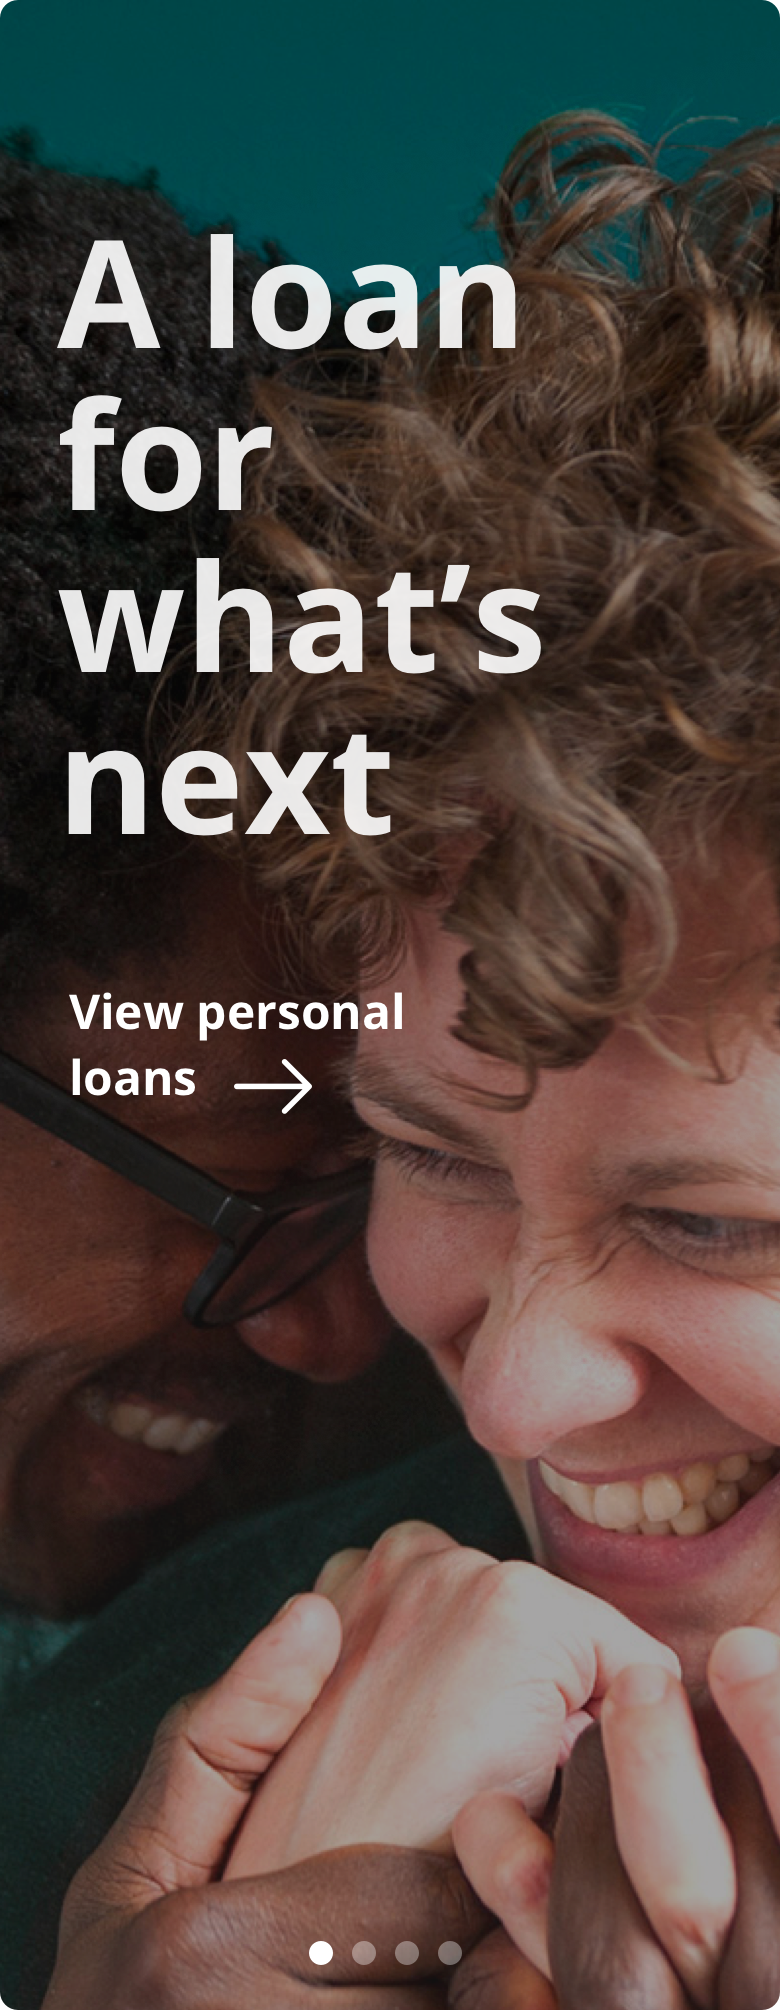
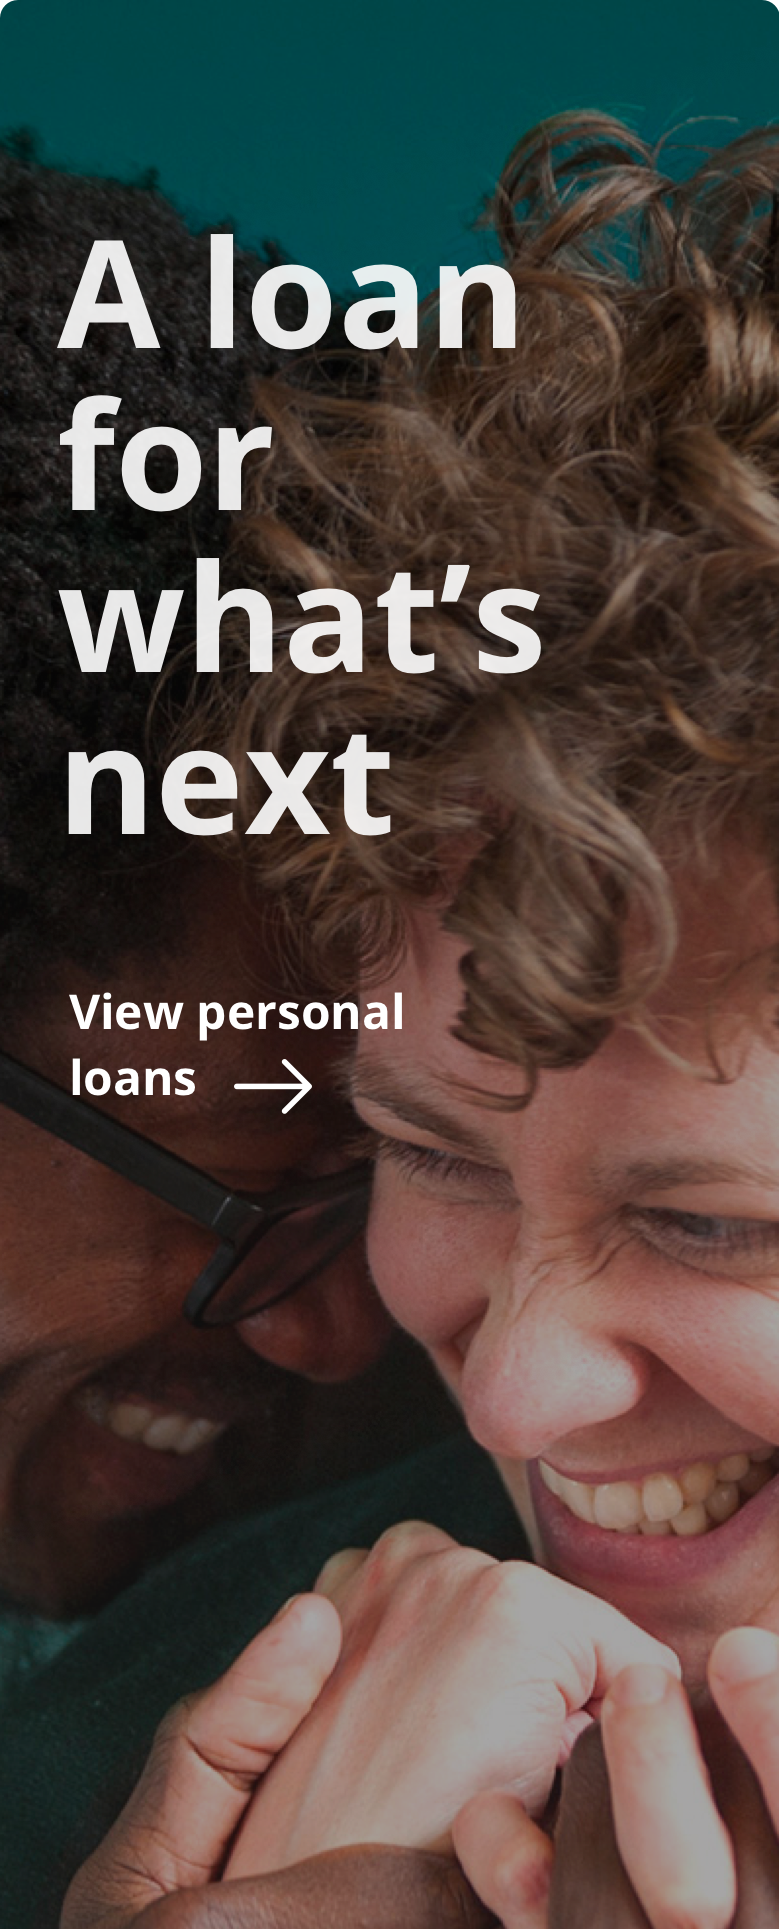
React Carousel Used

diff --git a/src/Components/Financials.jsx b/src/Components/Financials.jsx
@@ -5,6 +5,8 @@ import CreditHover from "./CreditHover";
 import { GoArrowRight } from "react-icons/go";
 import { GoGraph } from "react-icons/go";
 import { BsFillInfoCircleFill } from "react-icons/bs";
+import "react-responsive-carousel/lib/styles/carousel.min.css";
+import { Carousel } from 'react-responsive-carousel';
 class Financials extends Component {
   constructor(props) {
     super(props);
@@ -226,38 +228,17 @@ class Financials extends Component {
               </div>
             </div>
             <div className="main-right">
-              <div id="myCarousel" class="carousel slide" data-ride="carousel" data-interval="1000">
-                <ol class="carousel-indicators">
-                  <li data-target="#myCarousel" data-slide-to="0" class="active"></li>
-                  <li data-target="#myCarousel" data-slide-to="1"></li>
-                  <li data-target="#myCarousel" data-slide-to="2"></li>
-                </ol>
-
-                <div class="carousel-inner" data-interval="1000">
-                  <div class="item active">
+               <Carousel showThumbs={false} autoPlay={true} infiniteLoop={true} useKeyboardArrows={true}>
+                <div>
                     <img src="./assets/imgone.png" alt="" className="image" />
-
-                  </div>
-
-                  <div class="item">
-                    <img src="./assets/imgone.png" alt="" className="image" />
-
-                  </div>
-
-                  <div class="item">
-                    <img src="./assets/imgone.png" alt="" className="image" />
-                  </div>
                 </div>
-
-                <a class="left carousel-control" href="#myCarousel" data-slide="prev">
-                  <span class="glyphicon glyphicon-chevron-left"></span>
-                  <span class="sr-only">Previous</span>
-                </a>
-                <a class="right carousel-control" href="#myCarousel" data-slide="next">
-                  <span class="glyphicon glyphicon-chevron-right"></span>
-                  <span class="sr-only">Next</span>
-                </a>
-              </div>
+                <div>
+                    <img src="./assets/imgone.png" alt="" className="image" />
+                </div>
+                <div>
+                    <img src="./assets/imgone.png" alt="" className="image" />
+                </div>
+            </Carousel> 
 
             </div>
           </div>

diff --git a/src/Components/DebitHover.jsx b/src/Components/DebitHover.jsx
@@ -1,6 +1,6 @@
 import React, { Component } from "react";
 
-class Halifax extends Component {
+class DebitHover extends Component {
 
   render() {
     if (this.props.bankdetails) {
@@ -9,7 +9,7 @@ class Halifax extends Component {
 
         <div className="hover-card-main">
           <div>
-            <img src={`./assets/${bank.cardimage}`} alt="Halifax@2x" height="110px" />
+            <img src={`./assets/${bank.cardimage}`} alt={bank.bankName} height="110px" />
           </div>
           <div className="hover-text-left">
             <div>
@@ -45,4 +45,4 @@ class Halifax extends Component {
   }
 }
 
-export default Halifax;
+export default DebitHover;

diff --git a/src/App.css b/src/App.css
@@ -238,7 +238,7 @@ body{
     Ubuntu, Cantarell, "Open Sans", "Helvetica Neue", sans-serif;
   font-weight: 600;
   font-size: small;
-  width: 160px;
+  width: 200px;
   height: 168px;
   display: flex;
   flex-direction: column;
@@ -253,20 +253,4 @@ body{
 }
 .head{
   font-weight: 300;
-}
-
-@media only screen and (max-width: 600px) {
-  .main {
-    background-color: green;
-  }
-}
-@media only screen and (max-width: 300px) {
-  .main {
-    display: flex;
-    flex-direction: column;
-  }
-  .main-left-top{
-    display: flex;
-    flex-direction:column
-  }
 }

diff --git a/src/App.js b/src/App.js
@@ -22,9 +22,11 @@ function App() {
         <div className="header-right">
           <img src="./assets/contact.jpeg" alt="" height="30px" />
           <select name="users" id="users">
-            <option value="Alice">Alice</option>  
+          <option value="alice">Alice</option>  
+            <option value="bob">Bob</option>  
           </select>
-        <div className="btn" onClick="">
+          
+        <div className="btn">
         <img src="./assets/logout.png" alt="" height="29px" /> 
         </div>
 

diff --git a/src/Components/CreditHover.jsx b/src/Components/CreditHover.jsx
@@ -14,7 +14,7 @@ class CreditHover extends Component {
       const bank = this.props.bankdetails;
       return (<div className="hover-card-main">
         <div>
-          <img src={`./assets/${bank.cardimage}`} alt="Halifax@2x" height="110px" />
+          <img src={`./assets/${bank.cardimage}`} alt={bank.bankName} height="110px" />
         </div>
         <div className="hover-text-left ">
           <div>
